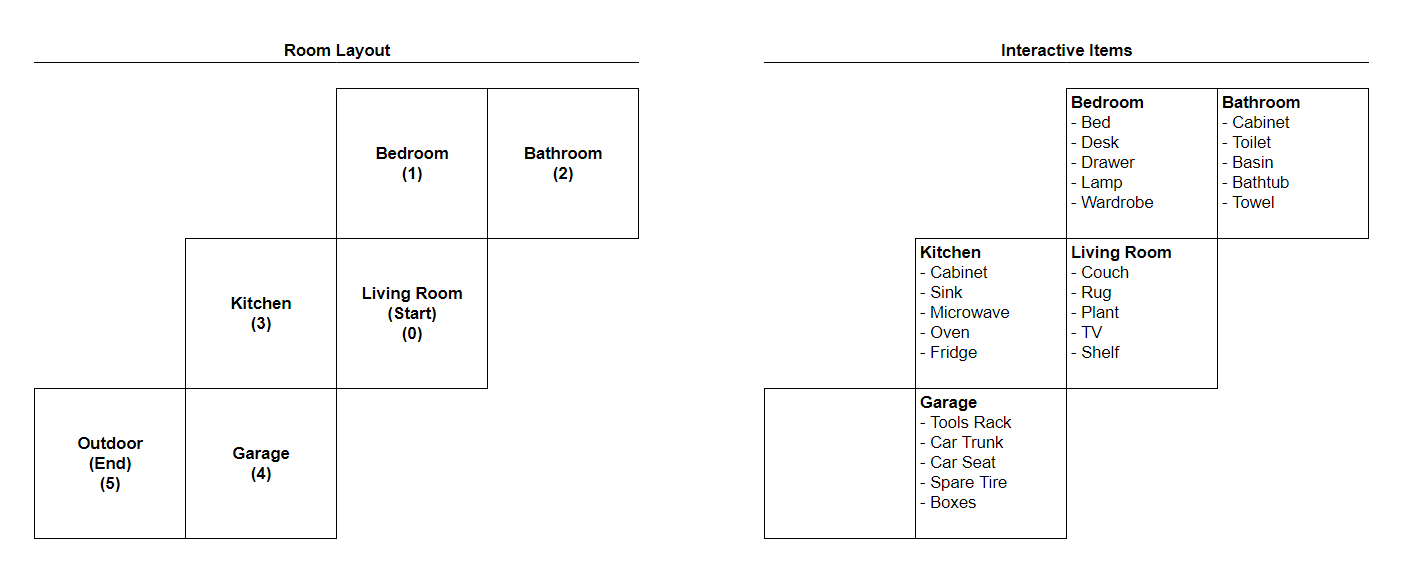
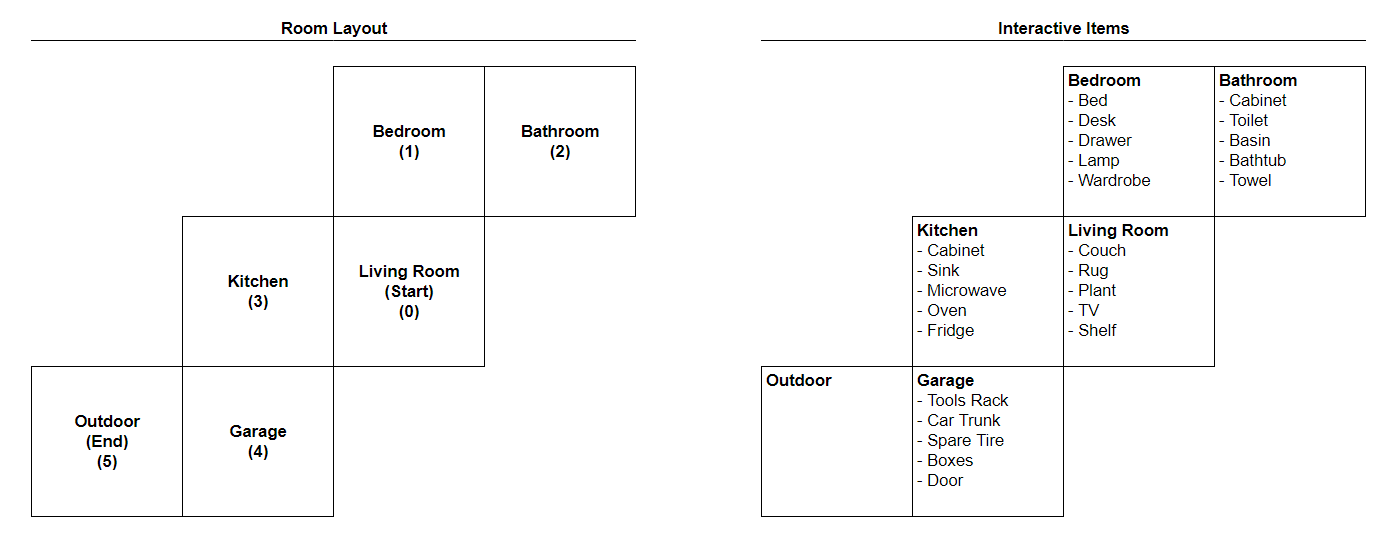
Update
Updated code and logic

diff --git a/escape-room.py b/escape-room.py
@@ -10,47 +10,75 @@ class Choice():
 
 # Track user's input
 def selection(start, end):
-    choice.answer = input(f"Make your selection ({start}-{end}): ")
+    if end > 1:
+        choice.answer = input(f"Make your selection ({start}-{end}): ")
+    else:
+        choice.answer = input(f"Make your selection ({start}): ")
     choice.start = start
     choice.end = end
-    return choice
 
 
 # Menu screen for the 2 main actions
 def select_action(choice, current_room):
-    print(f"You are in the {current_room}:")
+    print(f"\nYou are in the {current_room}:")
     print("1) Explore the room")
     print("2) Change Locations")
     selection(1, 2)
     choice.current_room = current_room
-    return choice
 
 
 # Menu screen for the rooms
-def room(choice, room_objects):
+def room(choice, rooms_list):
+    room_objects = [ ["Couch", "Rug", "Plant", "TV", "Shelf"],
+                     ["Bed", "Desk", "Drawer", "Lamp", "Wardrobe"],
+                     ["Cabinet", "Toilet", "Basin", "Bathtub", "Towel"],
+                     ["Cabinet", "Sink", "Microwave", "Oven", "Fridge"],
+                     ["Tools Rack", "Car Trunk", "Spare Tire", "Boxes", "Door"], ]
+
+    objects = {rooms_list[i]:j for i, j in enumerate(room_objects)}
+    count = 1
     choice.start = 1
     choice.end = len(room_objects)
-    for i in range(choice.start, choice.end + 1):
-        print(f"{i}) {room_objects[i - 1]}")
+
+    print("\nYou find the follow objects: ")
+    for r in objects.get(choice.current_room):
+        print(f"{count}) {r}")
+        count += 1
+
     selection(choice.start, choice.end)
-    return choice
 
 
+# Find adjacent rooms
 def location(choice, rooms_list):
     count = 1
     choice.end = 2
-    nearby_room_index = [[1, 3], [0, 2], 1, [0, 4], 3]
+    nearby_room_index = [[1, 3], [0, 2], [1], [0, 4], [3]]
     nearby_rooms = {rooms_list[i]:j for i, j in enumerate(nearby_room_index)}
+
+    # Display nearby locations
+    print("\nWhere would you like to go?")
     for r in nearby_rooms.get(choice.current_room):
-        print(f"{count}) Go to {rooms_list[r]}")
+        print(f"{count}) {rooms_list[r]}")
         count += 1
 
+    index = {i:j for i, j in enumerate(nearby_rooms.get(choice.current_room))}
+    choice.end = count - 1
+
+    # Change locations
+    selection(choice.start, choice.end)
+    if int(choice.answer) in list(range(choice.start, choice.end + 1)):
+        choice.current_room = rooms_list[index[int(choice.answer) - 1]]
+    else:
+        print("\nInvalid response. Please try again!")
+
+    print(f"New location: {choice.current_room}")
 
 
 # Main
 rooms_list = ["Living Room", "Bedroom", "Bathroom", "Kitchen", "Garage"]
-living_room_objects = ["Couch", "Rug", "Plant", "TV", "Shelf"]
 inventory = []
+
+# Set the room to start on. Alter this value for testing.
 current_room = rooms_list[0]
 game_started = False
 quit_game = False
@@ -77,7 +105,7 @@ while(choice.answer != "quit" or quit_game != False):
     if game_started == True: 
         select_action(choice, current_room)
         if choice.answer == "1":
-            room(choice, living_room_objects)
+            room(choice, rooms_list)
             quit()
         elif choice.answer == "2":
             location(choice, rooms_list)
@@ -85,3 +113,4 @@ while(choice.answer != "quit" or quit_game != False):
         else:
             if choice.answer != "quit":
                 print("\nInvalid response. Please try again!")
+                

diff --git a/room_objects.py b/room_objects.py
@@ -1,0 +1,16 @@
+rooms_list = ["Living Room", "Bedroom", "Bathroom", "Kitchen", "Garage"]
+room_objects = [ ["Couch", "Rug", "Plant", "TV", "Shelf"],
+                 ["Bed", "Desk", "Drawer", "Lamp", "Wardrobe"],
+                 ["Cabinet", "Toilet", "Basin", "Bathtub", "Towel"],
+                 ["Cabinet", "Sink", "Microwave", "Oven", "Fridge"],
+                 ["Tools Rack", "Car Trunk", "Spare Tire", "Boxes", "Door"], ]
+
+objects = {rooms_list[i]:j for i, j in enumerate(room_objects)}
+room_name = rooms_list[1]
+
+for room_name in rooms_list:
+    count = 1
+    print(f"\nCurrent room is: [{room_name}]")
+    for r in objects.get(room_name):
+        print(f"{count}) {r}")
+        count += 1

diff --git a/find_nearby_rooms.py b/find_nearby_rooms.py
@@ -1,0 +1,12 @@
+rooms_list = ["Living Room", "Bedroom", "Bathroom", "Kitchen", "Garage"]
+nearby_room_index = [[1, 3], [0, 2], [1], [0, 4], [3]]
+nearby_rooms = {rooms_list[i]:j for i, j in enumerate(nearby_room_index)}
+
+room_name = rooms_list[4]
+
+for room_name in rooms_list:
+    count = 1
+    print(f"\nCurrent room is [{room_name}]")
+    for r in nearby_rooms.get(room_name):
+        print(f"{count}) Go to {rooms_list[r]}")
+        count += 1
